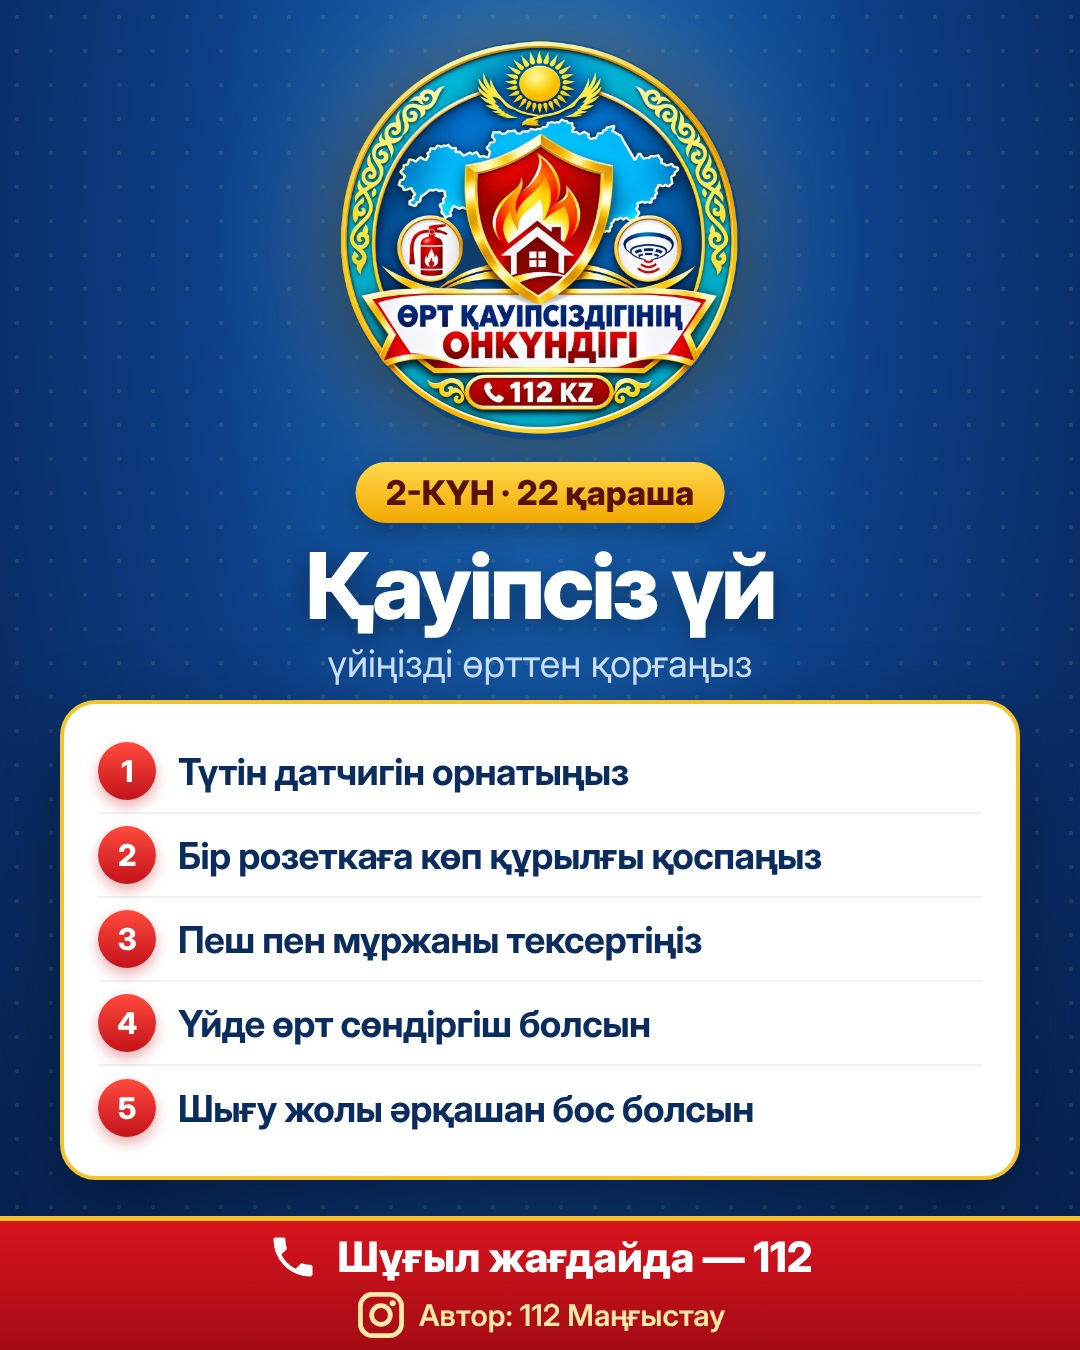
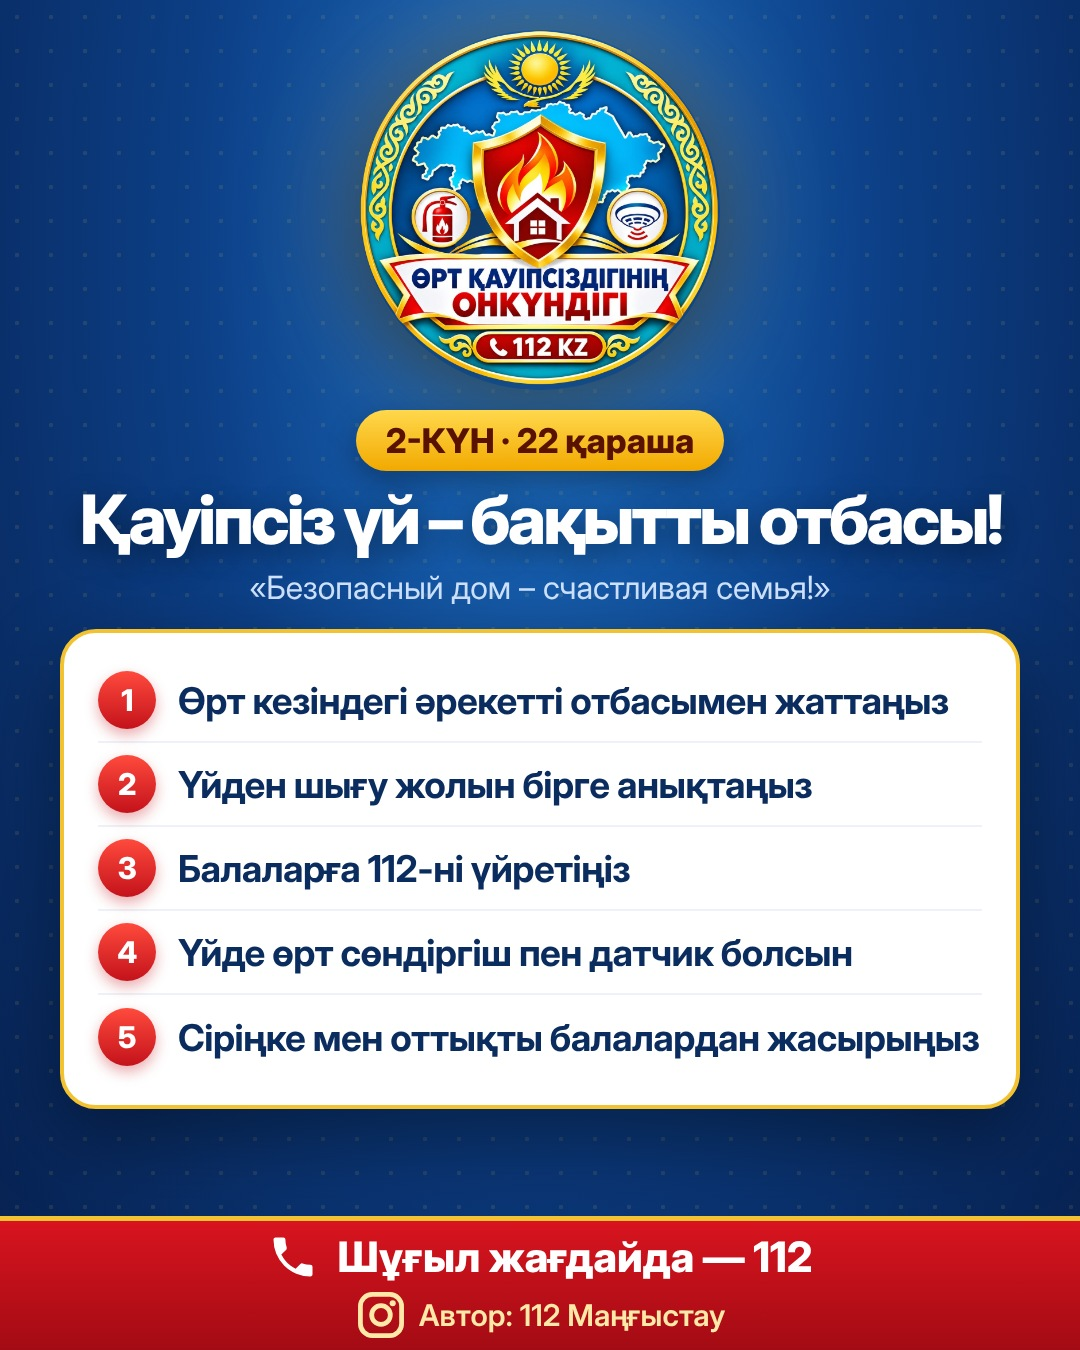
Campaign posts: switch to official media-plan themes
Claude-Session: https://claude.ai/code/session_01UaW116Q3TcPQWUDvgqJitd

Changed region(s): [[0.0306, 0.0, 0.9472, 0.9022]]

diff --git a/готовое/онкүндік/мәтіндер.md b/готовое/онкүндік/мәтіндер.md
@@ -1,4 +1,6 @@
 # «Өрт қауіпсіздігінің онкүндігі» — Инстаграм посттарының мәтіндері
+Медиалиния: «Қауіпсіз 10 күн» · 21 қараша – 2 желтоқсан 2026 (ҚР ТЖМ медиапланы бойынша)
+28–29 қараша — іс-шара жоспарланбаған (тыныштық күні және дауыс беру күні), пост салынбайды.
 
 Әр постың соңына міндетті түрде:
 
@@ -7,76 +9,93 @@
 (Инстаграм атауы нақтыланса — `@...` белгісімен тегтеледі.)
 
 Ортақ хэштегтер:
-`#ӨртҚауіпсіздігініңОнкүндігі #112 #ТЖМ #өртқауіпсіздігі #қауіпсіздік #Қазақстан #112Маңғыстау #Маңғыстау #Ақтау`
+`#ӨртҚауіпсіздігініңОнкүндігі #Қауіпсіз10күн #112 #ТЖМ #112Маңғыстау #Маңғыстау #Ақтау #өртқауіпсіздігі`
 
 ---
 
-## 1-күн · 21 қараша — Онкүндік басталды!
-🔥 Бүгіннен бастап Төтенше жағдайлар министрлігімен бірге «Өрт қауіпсіздігінің онкүндігі» акциясы басталды!
-10 күн бойы күн сайын бір тақырып: үй, балалар, пеш, электр, газ, датчиктер, өрт сөндіргіш…
-Өрт қауіпсіздігі — әр отбасының ісі. Бізбен бірге болыңыз, достарыңызбен бөлісіңіз.
-📞 Шұғыл жағдайда — 112
-
-## 2-күн · 22 қараша — Қауіпсіз үй
-🏠 Үйіңізді өрттен қалай қорғайсыз?
+## 1-күн · 21 қараша — ҚАУІПСІЗДІК ӘР ҮЙДЕ
+🏠 Бүгін «Өрт қауіпсіздігінің онкүндігі» басталды! Бірінші тақырып — «Қауіпсіздік әр үйде».
+Құтқарушылар әлеуметтік осал отбасыларды аралап, өрт датчиктерін орнатып, пештердің қауіпсіздігін тексереді.
+Сіз де үйіңізді тексеріңіз:
 1. Түтін датчигін орнатыңыз
-2. Бір розеткаға көп құрылғы қоспаңыз
-3. Пеш пен мұржаны тексертіңіз
-4. Үйде өрт сөндіргіш болсын
-5. Шығу жолы әрқашан бос болсын
-Сақтап қойыңыз 📌 және жақындарыңызға жіберіңіз.
+2. Пеш пен мұржаны тексертіңіз
+3. Жапқышты отын жанып біткенше жаппаңыз
+4. Иіс газы белгілері — бас ауруы, әлсіздік: бірден далаға шығыңыз
+5. Жалғыз тұратын қарттарға көмектесіңіз
 
-## 3-күн · 23 қараша — Қауіпсіз балалар
-👧👦 Бала — біздің жауапкершілігіміз.
-Сіріңке мен оттықты балаларға жеткізбеңіз, оларды пеш жанында жалғыз қалдырмаңыз.
-Ең маңыздысы: өрт кезінде шкафқа не төсек астына **тығылмау** керек екенін түсіндіріңіз және 112-ге қоңырау шалуды үйретіңіз.
-Бүгін балаңызбен үйден шығу жолын бірге жаттаңыз.
+## 2-күн · 22 қараша — ҚАУІПСІЗ ҮЙ – БАҚЫТТЫ ОТБАСЫ!
+👨👩👧👦 Қауіпсіз үй — бақытты отбасы!
+Өрт кезінде не істеу керегін бүкіл отбасымен бүгін жаттап алыңыз:
+1. Өрт кезіндегі әрекетті отбасымен жаттаңыз
+2. Үйден шығу жолын бірге анықтаңыз
+3. Балаларға 112-ні үйретіңіз
+4. Үйде өрт сөндіргіш пен датчик болсын
+5. Сіріңке мен оттықты балалардан жасырыңыз
+#БалаҚауіпсіздігі
 
-## 4-күн · 24 қараша — Пеш және жылыту
-🔥 Суық түсті, пеш жағылды — сақ болыңыз!
-Мұржа жапқышын отын толық жанып біткенше жаппаңыз — иіс газы осыдан шығады.
-Пеш жанына отын, киім, жиһаз қоймаңыз. Түнге пешті қатты қыздырмаңыз.
-Иіс газы датчигі — 3–5 мың ₸, ал өмір бағасыз.
+## 3-күн · 23 қараша — ҚАУІПСІЗ ӨМІР СҮРУДІ ҮЙРЕНЕМІЗ
+🏫 Мектептерде оқу эвакуациясы мен сабақтар өтуде. Балаңыз дабыл естігенде не істейтінін біле ме?
+1. Мектептің эвакуация жолын біліңіз
+2. Дабыл естілсе — мұғалімнің соңынан жүріңіз
+3. Сабыр сақтаңыз, итеріспеңіз
+4. Түтін болса, еңкейіп шығыңыз
+5. Жиналатын орынды алдын ала біліңіз
 
-## 5-күн · 25 қараша — Электр қауіпсіздігі
-⚡ Өрттің жиі себебі — сым мен розетка.
-Ұзартқышқа жылытқыш, шәйнек сияқты қуатты құрылғыларды қатар қоспаңыз.
-Жылытқышты қараусыз қалдырмаңыз, үстіне киім кептірмеңіз.
-Сым қызса не балқыса — бірден ажыратыңыз.
+## 4-күн · 24 қараша — ҚАУІПСІЗ БАЛАЛЫҚ ШАҚ
+🧒 Бүгін Маңғыстау облысында балабақшаларда ойындар, байқаулар және «Мен — болашақ құтқарушымын» фотоаймағы!
+Балаңызбен бірге оқыңыз:
+1. Отпен ойнау — қауіпті
+2. Өрт көрсең — үлкендерге айт
+3. Шкафқа, төсек астына тығылма
+4. Бірден 112-ге қоңырау шал
+5. Үйден шығу жолын біліп жүр
 
-## 6-күн · 26 қараша — Газ қауіпсіздігі
-💨 Газ иісі шықса:
-❌ от жақпаңыз, жарықты қоспаңыз
-✅ терезе мен есікті ашыңыз
-✅ газ кранын жабыңыз
-✅ үйден шығып, 104 не 112-ге хабарлаңыз
-Ас үйді газ плитасымен жылыту — өте қауіпті!
+## 5-күн · 25 қараша — ҚАУІПСІЗДІК БАРШАҒА ҚОЛЖЕТІМДІ!
+🤝 Қауіпсіздік — әр адамның құқығы. Есту не көру мүмкіндігі шектеулі жандар өрт туралы қалай біледі?
+1. Жарық және діріл беретін дабылдар бар
+2. Есту, көру мүмкіндігі шектеулі көршіңізге көмектесіңіз
+3. Эвакуация жолын алдын ала біліңіз
+4. Шығу жолын жиһазбен бөгемеңіз
+5. Шұғыл байланыс тәсілін жақындарыңызға айтыңыз
 
-## 7-күн · 27 қараша — Датчиктер өмір сақтайды
-🔔 Түтін және иіс газы датчигі — үйдегі ең арзан «құтқарушы».
-Бағасы небәрі 3–5 мың ₸, кез келген маркетплейсте бар.
-Жатын бөлмеге және пеш тұрған бөлмеге орнатыңыз, айына бір рет «тест» батырмасын басыңыз.
-Ата-анаңызға сыйлаңыз — бұл ең жақсы сыйлық.
+## 6-күн · 26 қараша — АҒА БУЫН – СЕНІМДІ ҚОРҒАУДА!
+👴👵 Ата-әжелеріміз — біздің қамқорлығымызда.
+1. Қарттарға жиі хабарласып тұрыңыз
+2. Пеш пен жылытқышты бірге тексеріңіз
+3. Телефонда 112 жазылып тұрсын
+4. Төсекте темекі шекпеңіз
+5. Өрт сөндіргішті қолдануды үйретіңіз
+Бір дұрыс қоңырау өмір сақтайды.
 
-## 8-күн · 28 қараша — Өрт сөндіргіш
-🧯 Үйде және көлікте өрт сөндіргіш болсын. Қолдану оңай:
-1. Шегесін суырыңыз
-2. Шлангты оттың түбіне бағыттаңыз
-3. Тұтқаны басыңыз
-4. Оттың түбін жан-жаққа сыпырыңыз
-Жарамдылық мерзімін бүгін тексеріп қойыңыз.
+## 7-күн · 27 қараша — КӨЛІГІҢ АМАН БОЛСЫН
+🚗 Көліктегі газ — қауіп қайда?
+1. Көлікте өрт сөндіргіш болсын
+2. Газ жабдығын тек сертификатталған жерде орнатыңыз
+3. Тұрмыстық газ баллонын АГҚС-та толтырмаңыз
+4. Газ иісі шықса — қозғалтқышты сөндіріңіз
+5. Жабық паркингте ГБО ережесін сақтаңыз
 
-## 9-күн · 29 қараша — Өрт шықса не істеу керек
-🚨 Сабыр сақтаңыз!
-Бірден 112-ге қоңырау шалыңыз. Түтін болса, еңкейіп шығыңыз — таза ауа төменде.
-Лифтіге мінбеңіз. Есікті ашпас бұрын қолмен ұстап көріңіз: ыстық болса — ашпаңыз.
-Мұрныңызды дымқыл шүберекпен жабыңыз.
+## 8-күн · 30 қараша — ҚҰТҚАРУШЫЛАРҒА ЖОЛ БЕР!
+🚒 Өрт көлігі аулаңыздан өте ала ма?
+1. Арнайы сигнал естілсе — жол беріңіз
+2. Аулада өрт көлігінің жолын бөгемеңіз
+3. Өрт гидрантының алдына көлік қоймаңыз
+4. Әр секунд — біреудің өмірі
+5. Көлігіңізді ережеге сай қойыңыз
 
-## 10-күн · 30 қараша — Онкүндік аяқталды
-✅ Онкүндік аяқталды, бірақ қауіпсіздік — күн сайын!
-Өзіңізді тексеріңіз:
-✔ Датчик орнатылды ма?
-✔ Өрт сөндіргіш бар ма?
-✔ Балалар 112-ні біле ме?
-✔ Шығу жолы бос па?
-Бізбен бірге болғаныңызға рахмет! Бұл постты жақындарыңызға жіберіңіз 🙏
+## 9-күн · 1 желтоқсан — БІЗ СӨНДІРУГЕ ЕМЕС, ҮЙРЕТУГЕ КЕЛДІК!
+👨🚒 Бүгін өрт көлігі сиренасыз келеді — сөндіруге емес, үйретуге!
+1. Үйдегі өрт қаупін табуды үйреніңіз
+2. Датчик пен өрт сөндіргішті тексеріңіз
+3. 112-ге қоңырау шалғанда: мекенжай, не болды, адамдар бар ма
+4. Сабыр сақтаңыз
+5. Құтқарушылар келгенше қауіпсіз жерде болыңыз
+
+## 10-күн · 2 желтоқсан — ҚАУІПСІЗ САУДА
+🛍 Сауда орталығының қосалқы шығу жолын білесіз бе?
+1. Сауда орталығында қосалқы шығуды біліңіз
+2. Эвакуация белгілеріне назар аударыңыз
+3. Пиротехниканы тек рұқсат етілген жерден сатып алыңыз
+4. Балаларды қараусыз қалдырмаңыз
+5. Дабыл естілсе — лифтіге мінбеңіз
+✅ «Өрт қауіпсіздігінің онкүндігі» аяқталды. Бізбен бірге болғаныңызға рахмет! Қауіпсіздік — күн сайын.
